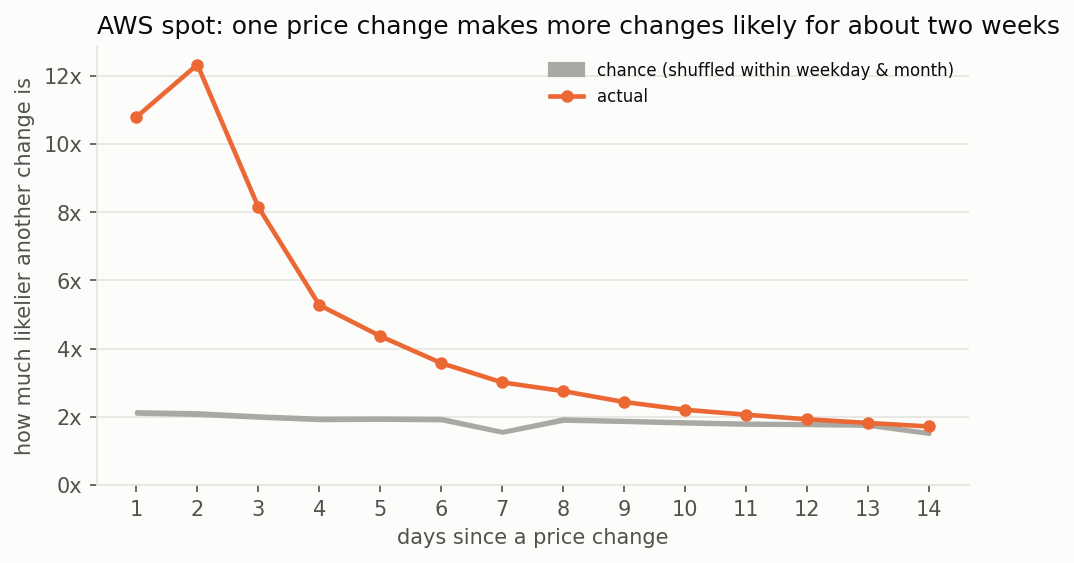
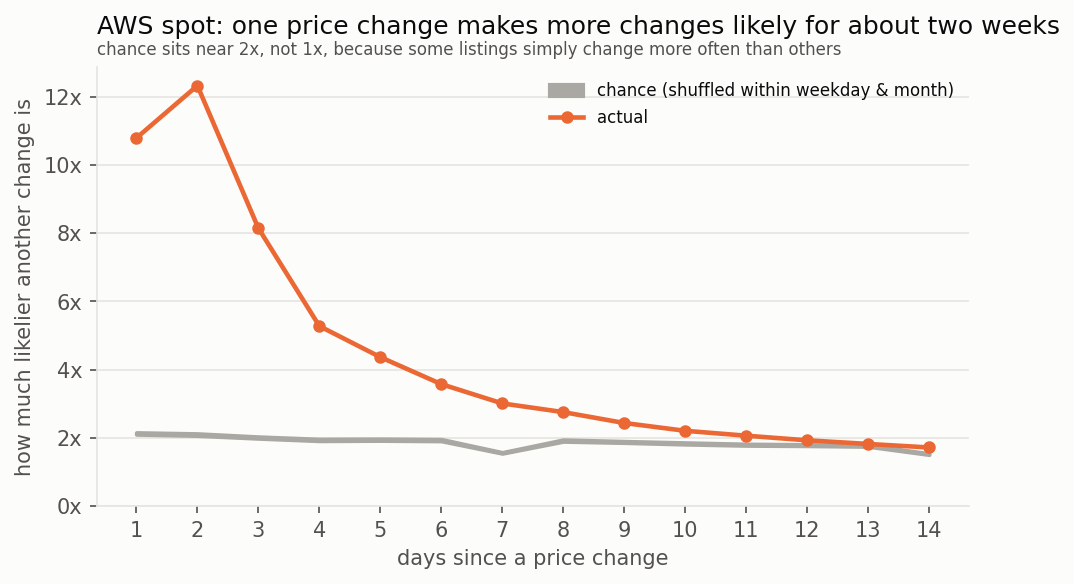
README charts: spot-only index, repricing raster, baseline note on bursts

diff --git a/readme_figures.py b/readme_figures.py
@@ -70,34 +70,32 @@ fig.suptitle("Four providers, four pricing machines", x=0.01, ha="left", fontsiz
 fig.tight_layout()
 save(fig, "pricing_styles.png")
 
-# ------------------------------------------------------------------ 2. spot vs on-demand index
+# ------------------------------------------------------------------ 2. spot price index by chip
+# Spot only: the on-demand index is a flat line, which the README says in words.
 chain = pd.read_csv(os.path.join(OUTD, "chained_index_daily.csv"), parse_dates=["day"])
-fig, axes = plt.subplots(1, 2, figsize=(12, 4.3), sharey=True)
-for ax, m in zip(axes, ["on-demand", "spot"]):
-    for _, g in gaps.iterrows():
-        ax.axvspan(g["min"], g["max"], color=GRID, lw=0)
-    ends = {}
-    for gpu, c in GPU_COLORS.items():
-        s = chain[(chain.gpu_type == gpu) & (chain.market == m)]
-        if len(s) < 60:
-            continue
-        ax.plot(s.day, s.level, color=c, lw=1.8, label=gpu)
-        ends[gpu] = (s.day.iloc[-1], s.level.iloc[-1])
-    if m == "spot":  # end labels, nudged apart so they don't overlap
-        prev = None
-        for gpu, (d, v) in sorted(ends.items(), key=lambda kv: kv[1][1]):
-            y = v if prev is None else max(v, prev + 0.045)
-            ax.text(d, y, " " + gpu, fontsize=8, color=MUTED, va="center")
-            prev = y
-    ax.axhline(1, color=MUTED, lw=0.8)
-    ax.set_title(f"{m.capitalize()}", loc="left", fontsize=11)
-axes[0].set_ylabel("price index (Jan 2026 = 1.0)")
-axes[0].legend(frameon=False, fontsize=8, ncol=2, loc="upper left")
-axes[1].set_xlim(right=axes[1].get_xlim()[1] + 15)
+chain = chain[chain.market == "spot"]
+fig, ax = plt.subplots(figsize=(9, 4.4))
+for _, g in gaps.iterrows():
+    ax.axvspan(g["min"], g["max"], color=GRID, lw=0, label="no data" if _ == gaps.index[0] else None)
+ends = {}
+for gpu, c in GPU_COLORS.items():
+    s = chain[chain.gpu_type == gpu]
+    if len(s) < 60:
+        continue
+    ax.plot(s.day, s.level, color=c, lw=1.8, label=gpu)
+    ends[gpu] = (s.day.iloc[-1], s.level.iloc[-1])
+prev = None  # end labels, nudged apart so they don't overlap
+for gpu, (d, v) in sorted(ends.items(), key=lambda kv: kv[1][1]):
+    y = v if prev is None else max(v, prev + 0.045)
+    ax.text(d, y, f" {gpu} {v - 1:+.0%}", fontsize=8, color=MUTED, va="center")
+    prev = y
+ax.axhline(1, color=MUTED, lw=0.8)
+ax.set_ylabel("spot price index (Jan 2026 = 1.0)")
+ax.set_xlim(right=ax.get_xlim()[1] + 30)
+ax.legend(frameon=False, fontsize=8, ncol=2, loc="upper left")
 fig.autofmt_xdate()
-fig.suptitle("Spot prices climbed through 2026; on-demand barely moved", x=0.01, ha="left", fontsize=12.5)
-fig.tight_layout()
-save(fig, "spot_vs_ondemand_index.png")
+ax.set_title("Spot prices by chip: most up, in steps, mostly from August", loc="left", fontsize=12)
+save(fig, "spot_index.png")
 
 # ------------------------------------------------------------------ 3. AWS bursts decay
 lift = pd.read_csv(os.path.join(OUTD, "events_lift_by_lag.csv"), index_col="lag")["aws spot"]
@@ -114,7 +112,58 @@ ax.set_ylim(0, None)
 ax.set_xticks(range(1, len(lift) + 1))
 ax.legend(frameon=False, fontsize=8)
 ax.grid(axis="x", visible=False)
-ax.set_title("AWS spot: one price change makes more changes likely for about two weeks", loc="left", fontsize=12)
+ax.set_title("AWS spot: one price change makes more changes likely for about two weeks", loc="left",
+             fontsize=12, pad=16)
+ax.text(0, 1.02, "chance sits near 2x, not 1x, because some listings simply change more often than others",
+        transform=ax.transAxes, fontsize=8, color=MUTED, va="bottom")
 save(fig, "aws_bursts.png")
+
+# ------------------------------------------------------------------ 4. price-change raster
+# Rows: up to 40 spot listings per provider (identical price paths collapsed, spread across the
+# provider's range of change rates). Columns: days. Dark = price changed that day.
+import matplotlib.dates as mdates
+
+from common import EPS, dedupe_paths, load_returns
+
+R, meta, days = load_returns(clean=False)  # Nebius kept whole so its switch is visible
+bad = [d + pd.Timedelta(days=k) for d in SUSPECT_DAYS for k in (0, 1)]
+R.loc[R.index.intersection(bad)] = np.nan  # same suspect days as the analysis
+ROWS = 40
+blocks, labels = [], []
+for prov in ["aws", "gcp", "verda", "nebius", "azure"]:
+    ids = meta.index[(meta.provider == prov) & meta.is_spot]
+    X = R[ids]
+    X = dedupe_paths(X.loc[:, X.notna().sum() >= 150])
+    rate = ((X.abs() > EPS).sum() / X.notna().sum()).sort_values(ascending=False)
+    pick = rate.index[np.unique(np.linspace(0, len(rate) - 1, min(ROWS, len(rate))).round().astype(int))]
+    M = np.where(X[pick].isna(), np.nan, (X[pick].abs() > EPS).astype(float)).T
+    blocks.append(M)
+    labels.append((prov, len(pick)))
+sep = np.full((3, len(R.index)), -1.0)  # spacer rows between providers
+mat = np.vstack([b for blk in blocks for b in (blk, sep)][:-1])
+rgb = np.ones(mat.shape + (3,))
+hexrgb = lambda h: [int(h[i:i + 2], 16) / 255 for i in (1, 3, 5)]
+rgb[mat == 0] = hexrgb("#f2f1ed")       # observed, no change
+rgb[mat == 1] = hexrgb("#2a78d6")       # price changed
+rgb[np.isnan(mat)] = hexrgb("#fcfcfb")  # no data
+rgb[mat == -1] = hexrgb("#fcfcfb")      # spacer
+x0, x1 = mdates.date2num(R.index[0]), mdates.date2num(R.index[-1] + pd.Timedelta(days=1))
+fig, ax = plt.subplots(figsize=(12, 6.2))
+ax.imshow(rgb, aspect="auto", interpolation="nearest", extent=[x0, x1, mat.shape[0], 0])
+ticks, row = [], 0
+for prov, n in labels:
+    ticks.append(row + n / 2)
+    row += n + 3
+ax.set_yticks(ticks, [p.upper() if p in ("aws", "gcp") else p.capitalize() for p, _ in labels])
+ax.tick_params(axis="y", length=0)
+ax.xaxis_date()
+ax.grid(False)
+for s in ax.spines.values():
+    s.set_visible(False)
+fig.autofmt_xdate()
+ax.set_title("Providers reprice in their own batches, not together", loc="left", fontsize=12, pad=16)
+ax.text(0, 1.01, f"blue = price changed that day; one row per spot listing (up to {ROWS} per provider), "
+        "one column per day; white = no data", transform=ax.transAxes, fontsize=8, color=MUTED, va="bottom")
+save(fig, "repricing_raster.png")
 
 print("wrote", sorted(os.listdir(IMG)))

diff --git a/README.md b/README.md
@@ -17,10 +17,10 @@ Nebius was static until 8 Oct 2026, then switched to daily dynamic pricing.
 
 OCI, Lambda and Vultr don't move at all.
 
-**Spot moves, on-demand doesn't.** From January to November, spot H100 rose ~40% and B200 and
-L40S ~55%, while on-demand prices for the same chips barely moved.
+**Spot moves, on-demand doesn't.** On-demand prices for the major chips moved less than 3% all
+year. Spot prices mostly rose, in steps, and not all the same way:
 
-![Spot vs on-demand price index](docs/img/spot_vs_ondemand_index.png)
+![Spot price index by chip](docs/img/spot_index.png)
 
 **AWS spot volatility clusters.** A price change makes another one far more likely over the
 next two weeks. It's strongest for Hopper and Blackwell chips. The clustering is in many small
@@ -34,6 +34,8 @@ you wouldn't see in a traded market. Nobody can arbitrage GPU-hours, so nothing 
 **Providers reprice alone.** Within a provider, listings change together (pairwise correlation
 0.70-0.92). Across providers the links are weak (correlations of 0.25 or less), even for the
 same chip.
+
+![Repricing raster](docs/img/repricing_raster.png)
 
 **Same chip, very different prices.** On a typical day the priciest A100 is ~6.6x the cheapest,
 H100 ~4.6x, B200 ~2.6x. Older chips are priced much less consistently.
